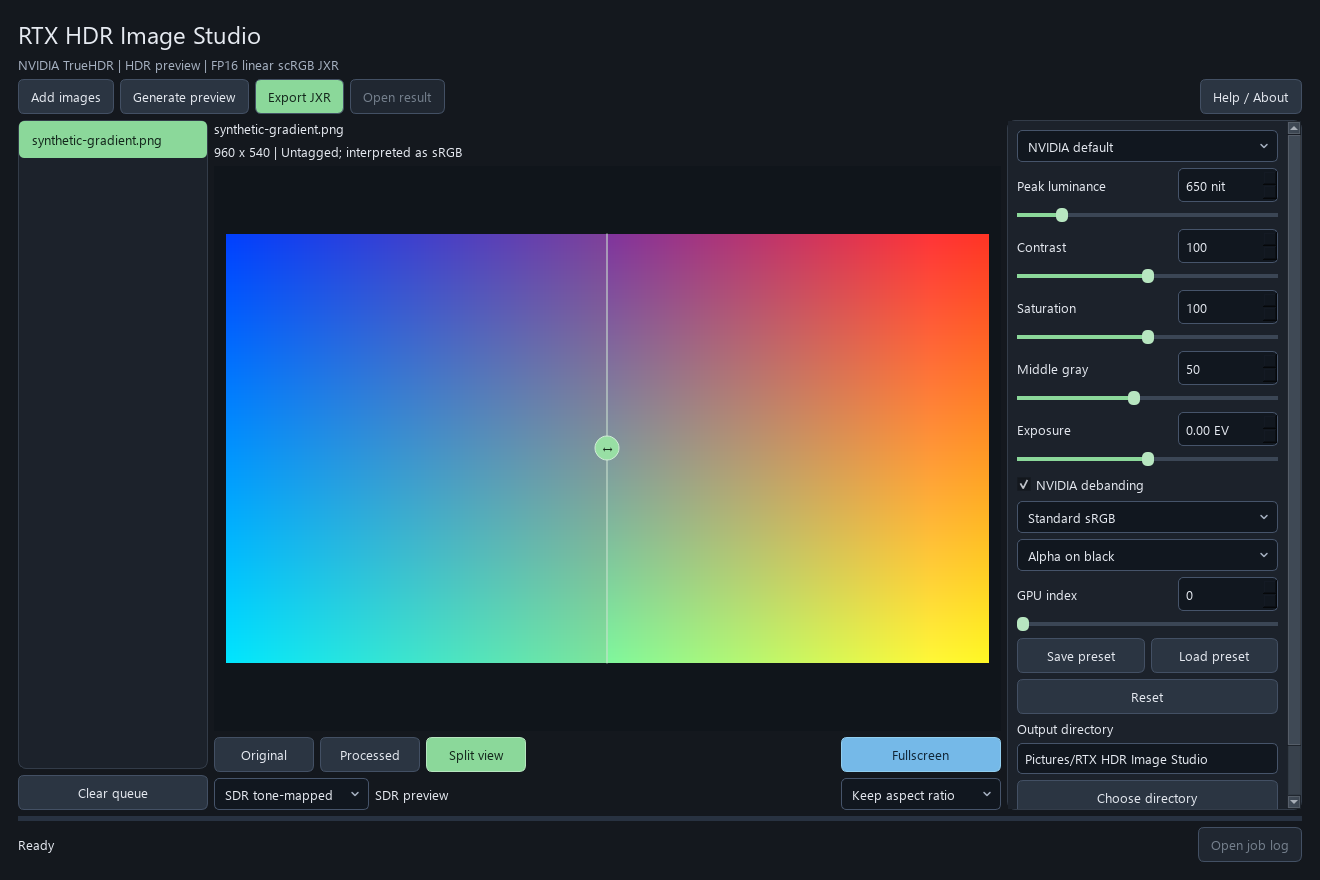
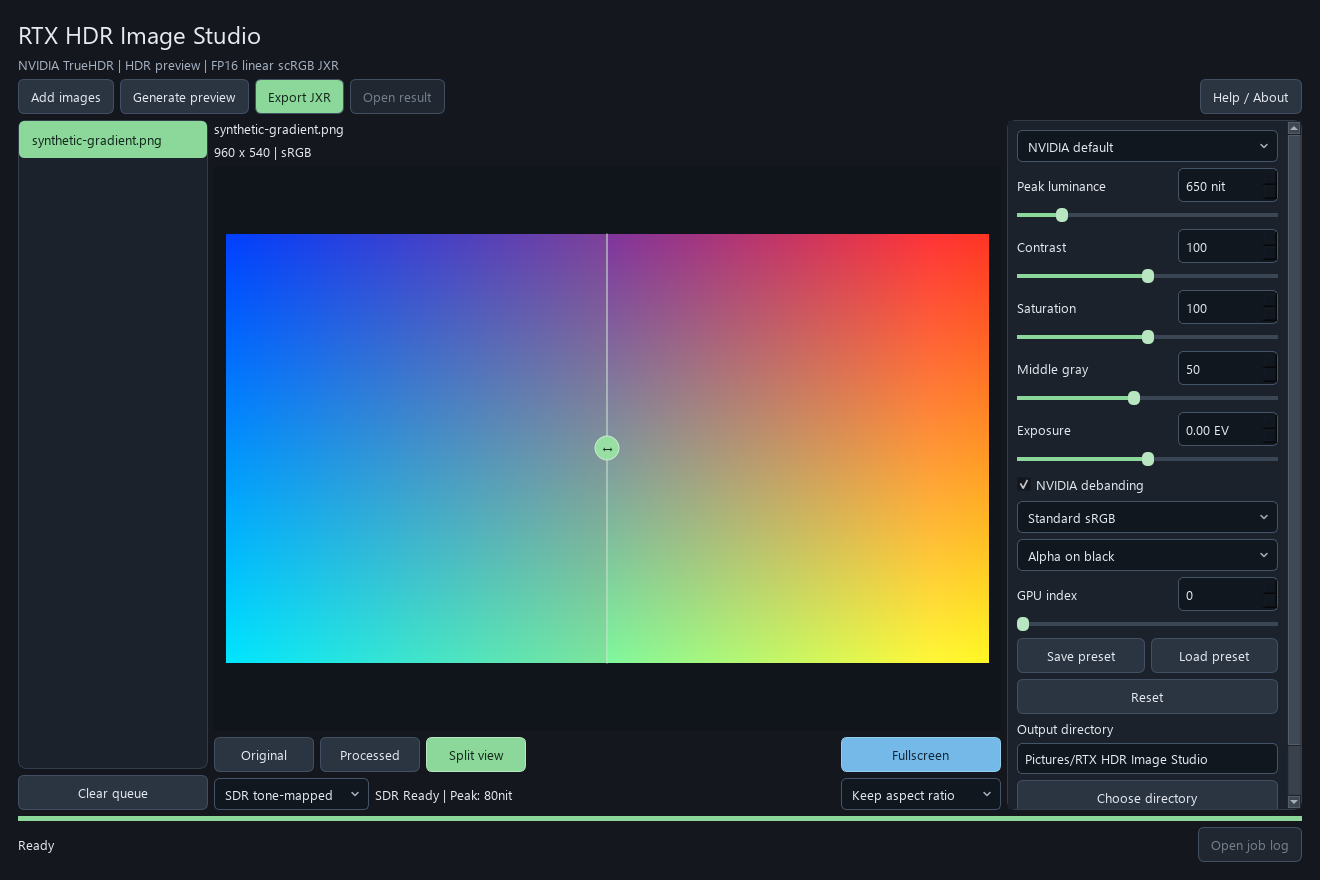
Release v1.1.2 with stable dropdown positioning and unified preview status

Changed region(s): [[0.0, 0.8898, 0.9939, 0.9511], [0.2174, 0.1534, 0.3417, 0.1841]]

diff --git a/src/rtx_hdr_studio/ui/window.py b/src/rtx_hdr_studio/ui/window.py
@@ -74,7 +74,6 @@ QComboBox QAbstractItemView::item { padding: 0 6px; border-radius: 3px; }
 QComboBox QAbstractItemView::item:selected { background: #8bd89a; color: #12251a; }
 QLabel#title { font-size: 24px; font-weight: 600; }
 QLabel#muted { color: #a6b1c1; }
-QLabel#notice { background: #202935; padding: 10px; border-radius: 6px; }
 QListWidget::item { padding: 10px; border-radius: 5px; }
 QListWidget::item:selected { background: #8bd89a; color: #12251a; }
 QSlider::groove:horizontal { height: 4px; background: #3b4655; }
@@ -223,10 +222,6 @@ class StudioWindow(QMainWindow):
         preview_controls.addLayout(fullscreen_controls)
         preview_controls.setAlignment(fullscreen_controls, Qt.AlignmentFlag.AlignTop)
         center.addLayout(preview_controls)
-        self.notice = QLabel()
-        self.notice.setObjectName("notice")
-        self.notice.setWordWrap(True)
-        center.addWidget(self.notice)
         self.canvas.display_changed.connect(self.update_notice)
         body.addLayout(center, 1)
         self.settings_panel = QScrollArea()
@@ -525,30 +520,28 @@ class StudioWindow(QMainWindow):
         self._sync_view_buttons()
         display = canvas.display_info
         if self.loading_preview:
-            self.display_status.setText("Preparing preview...")
+            status = "Preparing preview..."
         elif canvas.hdr_loading:
-            self.display_status.setText("Preparing HDR preview...")
-        elif canvas.hdr_active:
-            self.display_status.setText(f"HDR | {display.bits}-bit")
+            status = "Preparing HDR preview..."
         elif canvas.hdr_error:
-            self.display_status.setText("SDR fallback")
-        elif not canvas.prefer_hdr:
-            self.display_status.setText("SDR preview")
-        elif display.hdr_active:
-            self.display_status.setText("HDR Ready")
+            status = "SDR fallback"
+        elif canvas.hdr_active or (canvas.prefer_hdr and display.hdr_active):
+            status = "HDR Ready"
         else:
-            self.display_status.setText("SDR preview")
-        note = ""
+            status = "SDR Ready"
         result = self.results.get(self.selected_file())
+        outdated = False
         if result:
-            if result["settings"] != self.current_settings().to_dict():
-                note = "Preview outdated"
-            else:
-                note = f"Peak: {result['statistics']['peak_luminance_nits']:.0f} nit"
-        self.notice.setText(note)
-        self.notice.setVisible(bool(note))
+            status += f" | Peak: {result['statistics']['peak_luminance_nits']:.0f}nit"
+            outdated = result["settings"] != self.current_settings().to_dict()
+            if outdated:
+                status += " (Outdated)"
+        self.display_status.setText(status)
+        color = "color: #ff6b6b;" if outdated else ""
+        if self.display_status.styleSheet() != color:
+            self.display_status.setStyleSheet(color)
         self.display_status.setToolTip(
-            f"{display.name}\nMode: {display.color_mode}\n"
+            f"{display.name}\nMode: {display.color_mode} | {display.bits}-bit\n"
             f"SDR white: {display.sdr_white_nits:.0f} nit\n{canvas.hdr_error or display.error}"
         )
 

diff --git a/src/rtx_hdr_studio/ui/dropdown.py b/src/rtx_hdr_studio/ui/dropdown.py
@@ -3,6 +3,7 @@
 from PySide6.QtCore import QPoint, QRect, QRectF, Qt
 from PySide6.QtGui import QFontMetrics, QGuiApplication, QPainterPath, QRegion
 from PySide6.QtWidgets import (
+    QApplication,
     QComboBox,
     QFrame,
     QListView,
@@ -13,7 +14,7 @@ from PySide6.QtWidgets import (
 
 
 def popup_geometry(anchor, available, preferred_height, gap=3):
-    """Align with the control; flip above it or scroll when screen space is limited."""
+    """Choose a final below/above position, fitting the available screen if necessary."""
     width = min(anchor.width(), available.width())
     below_y = anchor.bottom() + 1 + gap
     below = max(0, available.bottom() - below_y + 1)
@@ -74,16 +75,27 @@ class Dropdown(QComboBox):
             return
         self.view().setFont(self.font())
         self.view().doItemsLayout()
-        super().showPopup()
-        popup = self.view().window()
-        popup.setFrameShape(QFrame.Shape.NoFrame)
-        popup.layout().setContentsMargins(0, 0, 0, 0)
         anchor = QRect(self.mapToGlobal(QPoint()), self.size())
         screen = QGuiApplication.screenAt(anchor.center()) or self.screen()
         height = min(self.count(), self.maxVisibleItems()) * self.height() + 10
-        popup.setGeometry(popup_geometry(anchor, screen.availableGeometry(), height))
-        self.view().doItemsLayout()
-        self.view().scrollTo(self.view().currentIndex())
-        outline = QPainterPath()
-        outline.addRoundedRect(QRectF(popup.rect()), 5, 5)
-        popup.setMask(QRegion(outline.toFillPolygon().toPolygon()))
+        geometry = popup_geometry(anchor, screen.availableGeometry(), height)
+        popup = self.view().window()
+        animate = QApplication.isEffectEnabled(Qt.UIEffect.UI_AnimateCombo)
+        updates = popup.updatesEnabled()
+        popup.setUpdatesEnabled(False)
+        # Qt's scroll animation remembers its original, screen-constrained
+        # geometry. Skip it while establishing our fixed position.
+        QApplication.setEffectEnabled(Qt.UIEffect.UI_AnimateCombo, False)
+        try:
+            super().showPopup()
+            popup.setFrameShape(QFrame.Shape.NoFrame)
+            popup.layout().setContentsMargins(0, 0, 0, 0)
+            popup.setGeometry(geometry)
+            self.view().doItemsLayout()
+            self.view().scrollTo(self.view().currentIndex())
+            outline = QPainterPath()
+            outline.addRoundedRect(QRectF(popup.rect()), 5, 5)
+            popup.setMask(QRegion(outline.toFillPolygon().toPolygon()))
+        finally:
+            QApplication.setEffectEnabled(Qt.UIEffect.UI_AnimateCombo, animate)
+            popup.setUpdatesEnabled(updates)

diff --git a/tests/test_preview_async.py b/tests/test_preview_async.py
@@ -9,6 +9,7 @@ from PySide6.QtGui import QImage
 from PySide6.QtTest import QTest
 from PySide6.QtWidgets import QApplication
 
+from rtx_hdr_studio.graphics.display import DisplayInfo
 from rtx_hdr_studio.ui import window as window_module
 from rtx_hdr_studio.ui.preview_tasks import (
     LatestTask,
@@ -175,6 +176,39 @@ def test_file_failure_releases_its_viewing_restriction(images_window):
     assert window.canvas.mode == "before"
     assert all(button.isEnabled() for button in window.view_buttons.values())
     assert window.fullscreen_button.isEnabled()
+
+
+def test_status_merges_peak_and_outdated_highlight_then_clears_on_image_change(
+    images_window, wait_until
+):
+    from PySide6.QtGui import QPalette
+
+    window, (first, _, _) = images_window
+    window.canvas.display_info = DisplayInfo(hdr_active=True, bits=10)
+    window.canvas.hdr_active = True
+    window.update_notice()
+    assert window.display_status.text() == "HDR Ready | Peak: 650nit"
+    original_color = window.display_status.palette().color(QPalette.WindowText)
+    window.parameters["contrast"].set_value(105)
+    assert window.display_status.text() == "HDR Ready | Peak: 650nit (Outdated)"
+    assert window.display_status.palette().color(QPalette.WindowText).name() == "#ff6b6b"
+    window.parameters["contrast"].set_value(100)
+    assert window.display_status.text() == "HDR Ready | Peak: 650nit"
+    assert window.display_status.palette().color(QPalette.WindowText) == original_color
+    window.parameters["contrast"].set_value(105)
+    window.results[first]["settings"] = window.current_settings().to_dict()
+    window.results[first]["statistics"]["peak_luminance_nits"] = 637
+    window.update_notice()
+    assert window.display_status.text() == "HDR Ready | Peak: 637nit"
+    assert window.display_status.palette().color(QPalette.WindowText) == original_color
+    window.canvas.hdr_active = False
+    window.canvas.prefer_hdr = False
+    window.update_notice()
+    assert window.display_status.text() == "SDR Ready | Peak: 637nit"
+    window.queue.setCurrentRow(1)
+    wait_until(lambda: not window.loading_preview)
+    assert window.display_status.text() == "SDR Ready"
+    assert window.display_status.styleSheet() == ""
 
 
 def test_preview_loader_drops_old_image_without_blocking_gui(

diff --git a/tests/test_dropdown.py b/tests/test_dropdown.py
@@ -23,7 +23,7 @@ from rtx_hdr_studio.ui.window import STYLE
         ),
     ],
 )
-def test_popup_stays_anchored_and_inside_available_screen(anchor, screen, height, expected):
+def test_popup_fits_available_screen(anchor, screen, height, expected):
     assert popup_geometry(anchor, screen, height) == expected
 
 
@@ -120,4 +120,26 @@ def test_long_popup_scrolls_without_changing_row_height(dropdown):
     index = dropdown.model().index(dropdown.currentIndex(), 0)
     assert view.visualRect(index).height() == dropdown.height()
     assert view.viewport().rect().contains(view.visualRect(index).center())
-    assert dropdown.screen().availableGeometry().contains(view.window().geometry())
+    assert view.window().width() == dropdown.width()
+
+
+@pytest.mark.parametrize("near_bottom", [False, True])
+def test_popup_uses_final_position_without_jumping_after_opening(dropdown, near_bottom):
+    host = dropdown.window()
+    if near_bottom:
+        host.move(host.x(), dropdown.screen().availableGeometry().bottom() - host.height() + 1)
+    QApplication.processEvents()
+    animation = QApplication.isEffectEnabled(Qt.UIEffect.UI_AnimateCombo)
+    dropdown.showPopup()
+    popup = dropdown.view().window()
+    anchor = QRect(dropdown.mapToGlobal(QPoint()), dropdown.size())
+    expected = popup_geometry(anchor, dropdown.screen().availableGeometry(), 106)
+    assert popup.geometry() == expected
+    assert dropdown.screen().availableGeometry().contains(popup.geometry())
+    if near_bottom:
+        assert popup.geometry().bottom() < anchor.top()
+    else:
+        assert popup.geometry().top() > anchor.bottom()
+    QTest.qWait(250)
+    assert popup.geometry() == expected
+    assert QApplication.isEffectEnabled(Qt.UIEffect.UI_AnimateCombo) == animation

diff --git a/src/rtx_hdr_studio/__init__.py b/src/rtx_hdr_studio/__init__.py
@@ -1,3 +1,3 @@
 """Local NVIDIA TrueHDR image processing, built with OpenAI Codex (ChatGPT)."""
 
-__version__ = "1.1.1"
+__version__ = "1.1.2"

diff --git a/docs/testing.md b/docs/testing.md
@@ -1,5 +1,17 @@
 # Testing and evidence
 
+## Version 1.1.2 validation (2026-11-01)
+
+| Check | Result |
+| --- | --- |
+| CPU/UI suite with the offscreen platform | 103 passed |
+| Dropdown interaction and geometry on the Windows platform | 12 passed |
+| Native Direct3D buffer and full-screen HDR viewing | 2 passed |
+| Real NVIDIA worker preview and JXR export | 1 passed |
+| Ruff lint, formatting, and package builds | Passed |
+
+Dropdown regression checks confirm that the popup stays at its final position immediately after opening and after the native animation interval, both below the control and above it near the screen bottom. Available-screen-space checks remain enabled. Status tests check the merged readiness/peak text, red outdated highlighting, matching-result recovery, and switching to an image without a preview. The README screenshot uses synthetic SDR data; it does not establish physical HDR appearance.
+
 ## Version 1.1.1 validation (2026-11-01)
 
 | Check | Result |
@@ -45,7 +57,7 @@ The buffer test creates its own small Windows surface and reads back its own GPU
 
 ## Manual checks before release
 
-Open every dropdown at 100%, 150%, and 200% display scaling. Its popup must match the control's width and left edge, rounded border, font, and row height. Check first and last selections: the popup must stay anchored below the control, flip above near the screen bottom, and scroll if neither side has enough space. Check arrow keys/Enter, mouse selection, Esc cancellation, outside-click dismissal, reopening, and secondary displays. The dropdown arrow must be included in installed packages and remain visible without an SVG plugin.
+Open every dropdown at 100%, 150%, and 200% display scaling. Its popup must match the control's width and left edge, rounded border, font, and row height. Check first and last selections: the popup must open at its final calculated position below or above the control, staying inside the available screen. It must not jump after opening or after an animation delay. Long lists must scroll. Check arrow keys/Enter, mouse selection, Esc cancellation, outside-click dismissal, reopening, and secondary displays. The dropdown arrow must be included in installed packages and remain visible without an SVG plugin. Preview status must combine readiness and image peak; a parameter change must keep the peak visible, append (Outdated), and color the full status red. Regenerating with matching settings or selecting an image without a preview must clear the outdated highlight.
 
 Generate a large preview and monitor the GUI while PNG/HDR data and the initial D3D device are prepared: window movement, cancel, and closing must remain responsive. Rapidly select different images and resize/full-screen/close during preparation; old results must not overwrite the current image or reopen a closed surface. In a batch, verify that only the currently processed image loses mode/full-screen controls, that a matching full-screen view closes, and that the lock advances and clears on failure/cancellation. Include initial HDR startup, repeated regeneration, SDR fallback, and a near-40MP source. Record event-loop latency separately from total time until the HDR frame is ready.
 

diff --git a/README.md b/README.md
@@ -2,8 +2,6 @@
 
 A local Windows desktop application that applies NVIDIA TrueHDR to SDR still images, previews the result in native HDR, and exports verified FP16 linear scRGB JPEG XR (`.jxr`) files.
 
-Current source version: **1.1.1**. See [CHANGELOG.md](CHANGELOG.md) for changes.
-
 Created with **OpenAI Codex (ChatGPT)** under the direction of **TeddyWEinzbern**. This is an independent community project. See [AUTHORS.md](AUTHORS.md).
 
 ![English interface with a synthetic gradient in SDR Split view](docs/interface.png)
@@ -82,7 +80,9 @@ Choose the blue **Fullscreen** button below the preview, or double-click the ima
 
 The active preview mode is highlighted on its button. The three mode buttons stay grouped on the left in **Original / Processed / Split view** order; Fullscreen and its scaling selector stay on the right without stretching across a wide window. Choose **Keep aspect ratio** (default) to fit the screen, **Fill** to keep the aspect ratio and crop centrally to cover the screen, **Stretch** to fill it without preserving the aspect ratio, or **No scaling** for one preview pixel per physical display pixel, centered on screen. No scaling automatically fits while keeping aspect ratio if either image dimension exceeds the screen. Dropdowns and the image queue use light selection highlights on dark backgrounds.
 
-Dropdown menus share the control's rounded border, font, width, and row height. They align below the control, open above it near the screen bottom, and scroll when needed. Arrow keys and Enter select an option; Esc or clicking outside dismisses the menu.
+Dropdown menus share the control's rounded border, font, width, and row height. They open below the control when there is enough space, otherwise above it or with a shorter scrollable list. Their final position is calculated before display, without a native opening animation that could move them afterward. Arrow keys and Enter select an option; Esc or clicking outside dismisses the menu.
+
+Preview readiness and image peak appear together, for example **HDR Ready | Peak: 637nit**. Changing the parameters marks the existing preview **(Outdated)** and highlights the entire status in red; generating a matching preview clears the highlight. SDR viewing retains its SDR readiness/fallback label in the same status line.
 
 | Parameter | Range | Default |
 | --- | --- | --- |
@@ -119,7 +119,7 @@ Logs and preview caches are stored in `%LOCALAPPDATA%\RTX HDR Image Studio\cache
 
 ## Development
 
-See [CONTRIBUTING.md](CONTRIBUTING.md), [architecture](docs/architecture.md), and [testing](docs/testing.md).
+See [CONTRIBUTING.md](CONTRIBUTING.md), [CHANGELOG.md](CHANGELOG.md), [architecture](docs/architecture.md), and [testing](docs/testing.md).
 
 ## License and attribution
 

diff --git a/docs/architecture.md b/docs/architecture.md
@@ -36,3 +36,5 @@ Full-screen Fill uses centered aspect-preserving cover geometry shared by SDR an
 Qt SDR drawing, native HDR composition, and image hit testing share physical-pixel placement calculations. Full-screen scaling can fit with aspect ratio, stretch, or retain the preview's pixel dimensions; actual-size images that exceed either screen dimension fall back to fit. This avoids treating Qt logical pixels as image pixels at high display scaling factors. Preview buttons reflect the effective visible mode, including Original when no generated result is available.
 
 In full-screen Split view, a left-button drag starting inside the image updates the viewer's divider without changing the main canvas or restarting the hint timer. The divider is constrained to the displayed image, including letterboxed actual-size previews. The native child forwards press, move, release, and double-click events to the same controller used by the SDR canvas.
+
+Dropdowns retain Qt's selection handling and calculate a final popup rectangle before showing the list. The opening call temporarily disables Qt's combo animation and paints only after final placement, then restores the previous application animation flag. Available screen space determines whether the list opens below or above, and constrains its width and height if necessary. The preview status combines HDR/SDR readiness with the selected result's image peak; settings mismatch appends (Outdated) and applies a red text style. There is no separate image-peak panel.

diff --git a/CHANGELOG.md b/CHANGELOG.md
@@ -1,5 +1,11 @@
 # Changelog
 
+## 1.1.2 - 2026-11-01
+
+- Calculate the dropdown's final position before display, retaining screen-space checks for opening above or below and shortening long lists. Skip the native opening animation to prevent it from moving the popup back to a previous position.
+- Merge readiness, image peak, and outdated-preview status into one line. Outdated previews retain their peak reading, append `(Outdated)`, and highlight the full status in red.
+- Remove the separate peak panel, refresh the synthetic README screenshot, and remove the README's current-source-version paragraph.
+
 ## 1.1.1 - 2026-11-01
 
 - Show the full-screen exit hint until it has disappeared automatically once per application run. Early exit keeps the hint available; restarting resets it without saving a preference.
